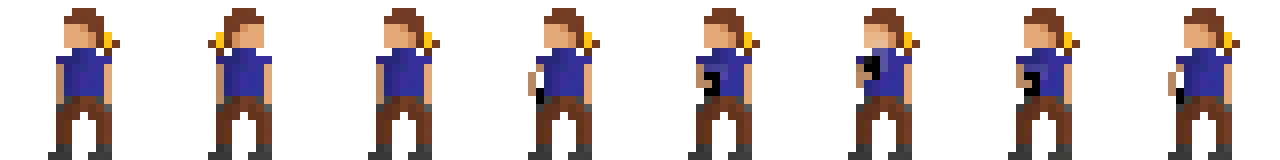
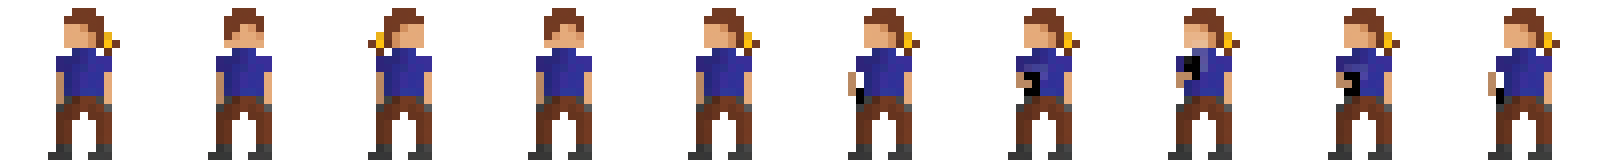
Ajouté les fichiers .pixil au projet Modifié l'animation d'attente pour rendre les mouvements plus fluide

diff --git a/src/Player.h b/src/Player.h
@@ -44,7 +44,7 @@ private:
     float walkDirection = 0;
 
     // Array of animation frame durations for the idle animation
-    const int IDLE_ANIMATION_FRAME_DURATIONS[8] = {2000, 2000, 1500, 125, 125, 2500, 125, 125};
+    const int IDLE_ANIMATION_FRAME_DURATIONS[10] = {2000, 100,1500, 100, 1500, 100, 100, 2500, 100, 100};
 
     void jump();
 
